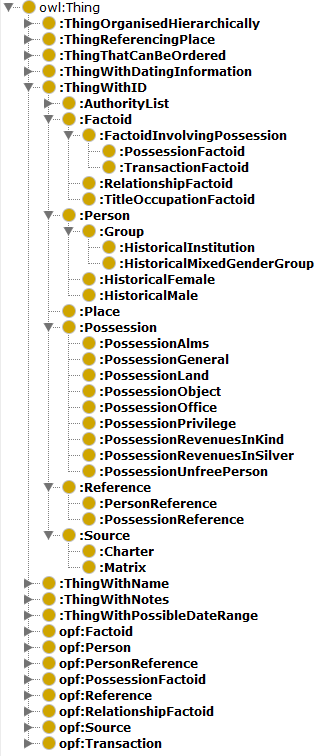
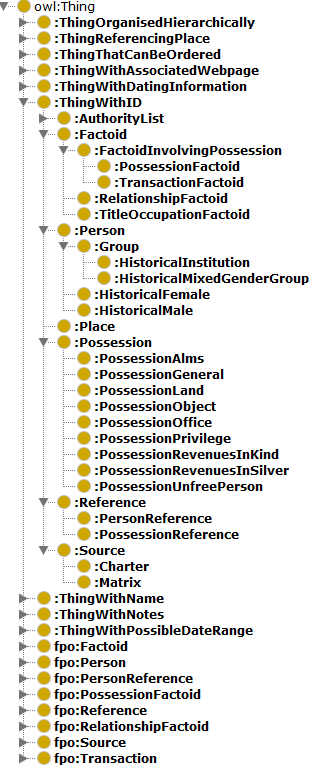
minor fixes to doc/using.html

diff --git a/uk.ac.kcl.kdl.jb.poms.rdfserver/WebContent/ontology/doc/annotationproperties/comment___1501100887.html b/uk.ac.kcl.kdl.jb.poms.rdfserver/WebContent/ontology/doc/annotationproperties/comment___1501100887.html
@@ -33,7 +33,7 @@
 <li class="asserted"><a href="../classes/CharterType___-1591539663.html" class='Class' title="http://www.poms.ac.uk/rdf/ontology#CharterType">:CharterType</a>&nbsp;<span class='Annotation Property active-entity'>rdfs:comment</span> <span class='literal'>"Type of document, such as charter, strictly defined, a diploma, a brieve, an agreement, etc."</span>&nbsp;</li>
 <li class="asserted"><a href="../classes/CommonBurden___1141474437.html" class='Class' title="http://www.poms.ac.uk/rdf/ontology#CommonBurden">:CommonBurden</a>&nbsp;<span class='Annotation Property active-entity'>rdfs:comment</span> <span class='literal'>"Burdens owed commonly in respect of landholding, usually aids, works, army service"</span>&nbsp;</li>
 <li class="asserted"><a href="../classes/ExemptionType___1547741167.html" class='Class' title="http://www.poms.ac.uk/rdf/ontology#ExemptionType">:ExemptionType</a>&nbsp;<span class='Annotation Property active-entity'>rdfs:comment</span> <span class='literal'>"Exemptions from burdens and service owed for landholding"</span>&nbsp;</li>
-<li class="asserted"><a href="../classes/Factoid___1917271338.html" class='Class' title="http://www.poms.ac.uk/rdf/ontology#Factoid">:Factoid</a>&nbsp;<span class='Annotation Property active-entity'>rdfs:comment</span> <span class='literal'>"In PoMS a :Factoid represents a place in a historical source (usually a legal charter) where something is said about a person or a group persons.  This is semantically the idea behind the opf:Factoid as well, thus this :Factoid class is a subclass of opf:Factoid."</span>&nbsp;</li>
+<li class="asserted"><a href="../classes/Factoid___1917271338.html" class='Class' title="http://www.poms.ac.uk/rdf/ontology#Factoid">:Factoid</a>&nbsp;<span class='Annotation Property active-entity'>rdfs:comment</span> <span class='literal'>"In PoMS a :Factoid represents a place in a historical source (usually a legal charter) where something is said about a person or a group persons.  This is semantically the idea behind the fpo:Factoid as well, thus this :Factoid class is a subclass of fpo:Factoid."</span>&nbsp;</li>
 <li class="asserted"><a href="../classes/FactoidInvolvingPossession___-575960982.html" class='Class' title="http://www.poms.ac.uk/rdf/ontology#FactoidInvolvingPossession">:FactoidInvolvingPossession</a>&nbsp;<span class='Annotation Property active-entity'>rdfs:comment</span> <span class='literal'>"Factoids that involve one or more possessions. There are two kinds : (i) :PossessionFactoid represents a simple assertion that someone owned something;  and (ii) :TransactionFactoid represents a legal transaction between people of a possession."</span>&nbsp;</li>
 <li class="asserted"><a href="../classes/GrantorCategory___-276048023.html" class='Class' title="http://www.poms.ac.uk/rdf/ontology#GrantorCategory">:GrantorCategory</a>&nbsp;<span class='Annotation Property active-entity'>rdfs:comment</span> <span class='literal'>"Series of documents based on category of grantors, e.g., earls of Fife, papal judges delegate"</span>&nbsp;</li>
 <li class="asserted"><a href="../classes/Group___1413577675.html" class='Class' title="http://www.poms.ac.uk/rdf/ontology#Group">:Group</a>&nbsp;<span class='Annotation Property active-entity'>rdfs:comment</span> <span class='literal'>"a group of people which form an entity which is referenced in a charter. E.g., a monastary, or a city."</span>&nbsp;</li>
@@ -213,7 +213,7 @@
 <li class="asserted"><a href="../objectproperties/referencesPerson___362848617.html" class='Object Property' title="http://www.poms.ac.uk/rdf/ontology#referencesPerson">:referencesPerson</a>&nbsp;<span class='Annotation Property active-entity'>rdfs:comment</span> <span class='literal'>"The link to :Person being referenced"</span>&nbsp;</li>
 <li class="asserted"><a href="../objectproperties/referencesPossession___-1661355050.html" class='Object Property' title="http://www.poms.ac.uk/rdf/ontology#referencesPossession">:referencesPossession</a>&nbsp;<span class='Annotation Property active-entity'>rdfs:comment</span> <span class='literal'>"The link to :Possession being referenced"</span>&nbsp;</li>
 <li class="asserted"><a href="../datatypes/wktLiteral___-733726512.html" class='Datatype' title="http://www.w3.org/2003/01/geo/wgs84_pos#wktLiteral">geo:wktLiteral</a>&nbsp;<span class='Annotation Property active-entity'>rdfs:comment</span> <span class='literal'>"Asserts that the data present gives geographic data using wktLiteral notation.  In PoMS only georgraphic points are given, e.g. â€œPOINT(55.953 -3.189)â€. Rdf4jâ€™s implementation of GeoSPARQL, available in this server, supportss wktLiteral format. (See pages for GeoSPARQL at GitHub and rdfj4 itself)."</span>&nbsp;</li>
-<li class="asserted"><a href="../classes/Factoid___1366574289.html" class='Class' title="https://github.com/johnBradley501/FPO/raw/master/fpo.owl#Factoid">opf:Factoid</a>&nbsp;<span class='Annotation Property active-entity'>rdfs:comment</span> <span class='literal'>"A Factoid is a spot in a primary source where something is said about a Person or several people. This is the central conception of the "factoid" approach to prosopography."</span>&nbsp;</li>
+<li class="asserted"><a href="../classes/Factoid___1366574289.html" class='Class' title="https://github.com/johnBradley501/FPO/raw/master/fpo.owl#Factoid">fpo:Factoid</a>&nbsp;<span class='Annotation Property active-entity'>rdfs:comment</span> <span class='literal'>"A Factoid is a spot in a primary source where something is said about a Person or several people. This is the central conception of the "factoid" approach to prosopography."</span>&nbsp;</li>
 <li class="asserted"><a href="hasDescription___-481342866.html" class='Annotation Property' title="http://www.poms.ac.uk/rdf/ontology#hasDescription">:hasDescription</a> <span class='keyword'>SubPropertyOf</span> <span class='Annotation Property active-entity'>rdfs:comment</span></li>
 <li class="asserted"><a href="hasPersonDescription___146211673.html" class='Annotation Property' title="http://www.poms.ac.uk/rdf/ontology#hasPersonDescription">:hasPersonDescription</a> <span class='keyword'>SubPropertyOf</span> <span class='Annotation Property active-entity'>rdfs:comment</span></li>
 <li class="asserted"><span class='Annotation Property active-entity'>rdfs:comment</span> <span class='literal'>"An ontology for the data created by the People of Medieval Scotland project (see http://www.poms.ac.uk).  The major data repository for the work of the PoMS project was a relational database.  This ontology provides a definition for the RDF expression of the data in that database."</span></li>

diff --git a/uk.ac.kcl.kdl.jb.poms.rdfserver/WebContent/ontology/doc/datatypes/PlainLiteral___-1770072891.html b/uk.ac.kcl.kdl.jb.poms.rdfserver/WebContent/ontology/doc/datatypes/PlainLiteral___-1770072891.html
@@ -39,7 +39,7 @@
 <li class="asserted"><a href="../classes/CommonBurden___1141474437.html" class='Class' title="http://www.poms.ac.uk/rdf/ontology#CommonBurden">:CommonBurden</a>&nbsp;<a href="../annotationproperties/label___653429740.html" class='Annotation Property' title="http://www.w3.org/2000/01/rdf-schema#label">rdfs:label</a> <span class='literal'>"Common Burden"</span>&nbsp;</li>
 <li class="asserted"><a href="../classes/ExemptionType___1547741167.html" class='Class' title="http://www.poms.ac.uk/rdf/ontology#ExemptionType">:ExemptionType</a>&nbsp;<a href="../annotationproperties/comment___1501100887.html" class='Annotation Property' title="http://www.w3.org/2000/01/rdf-schema#comment">rdfs:comment</a> <span class='literal'>"Exemptions from burdens and service owed for landholding"</span>&nbsp;</li>
 <li class="asserted"><a href="../classes/ExemptionType___1547741167.html" class='Class' title="http://www.poms.ac.uk/rdf/ontology#ExemptionType">:ExemptionType</a>&nbsp;<a href="../annotationproperties/label___653429740.html" class='Annotation Property' title="http://www.w3.org/2000/01/rdf-schema#label">rdfs:label</a> <span class='literal'>"ExemptionType"</span>&nbsp;</li>
-<li class="asserted"><a href="../classes/Factoid___1917271338.html" class='Class' title="http://www.poms.ac.uk/rdf/ontology#Factoid">:Factoid</a>&nbsp;<a href="../annotationproperties/comment___1501100887.html" class='Annotation Property' title="http://www.w3.org/2000/01/rdf-schema#comment">rdfs:comment</a> <span class='literal'>"In PoMS a :Factoid represents a place in a historical source (usually a legal charter) where something is said about a person or a group persons.  This is semantically the idea behind the opf:Factoid as well, thus this :Factoid class is a subclass of opf:Factoid."</span>&nbsp;</li>
+<li class="asserted"><a href="../classes/Factoid___1917271338.html" class='Class' title="http://www.poms.ac.uk/rdf/ontology#Factoid">:Factoid</a>&nbsp;<a href="../annotationproperties/comment___1501100887.html" class='Annotation Property' title="http://www.w3.org/2000/01/rdf-schema#comment">rdfs:comment</a> <span class='literal'>"In PoMS a :Factoid represents a place in a historical source (usually a legal charter) where something is said about a person or a group persons.  This is semantically the idea behind the fpo:Factoid as well, thus this :Factoid class is a subclass of fpo:Factoid."</span>&nbsp;</li>
 <li class="asserted"><a href="../classes/FactoidInvolvingPossession___-575960982.html" class='Class' title="http://www.poms.ac.uk/rdf/ontology#FactoidInvolvingPossession">:FactoidInvolvingPossession</a>&nbsp;<a href="../annotationproperties/comment___1501100887.html" class='Annotation Property' title="http://www.w3.org/2000/01/rdf-schema#comment">rdfs:comment</a> <span class='literal'>"Factoids that involve one or more possessions. There are two kinds : (i) :PossessionFactoid represents a simple assertion that someone owned something;  and (ii) :TransactionFactoid represents a legal transaction between people of a possession."</span>&nbsp;</li>
 <li class="asserted"><a href="../individuals/Friday___-837916949.html" class='Individual' title="http://www.poms.ac.uk/rdf/ontology#Friday">:Friday</a>&nbsp;<a href="../annotationproperties/label___653429740.html" class='Annotation Property' title="http://www.w3.org/2000/01/rdf-schema#label">rdfs:label</a> <span class='literal'>"Weekday: Friday"</span>&nbsp;</li>
 <li class="asserted"><a href="../classes/GrantorCategory___-276048023.html" class='Class' title="http://www.poms.ac.uk/rdf/ontology#GrantorCategory">:GrantorCategory</a>&nbsp;<a href="../annotationproperties/comment___1501100887.html" class='Annotation Property' title="http://www.w3.org/2000/01/rdf-schema#comment">rdfs:comment</a> <span class='literal'>"Series of documents based on category of grantors, e.g., earls of Fife, papal judges delegate"</span>&nbsp;</li>
@@ -262,7 +262,7 @@
 <li class="asserted"><a href="../objectproperties/referencesPerson___362848617.html" class='Object Property' title="http://www.poms.ac.uk/rdf/ontology#referencesPerson">:referencesPerson</a>&nbsp;<a href="../annotationproperties/comment___1501100887.html" class='Annotation Property' title="http://www.w3.org/2000/01/rdf-schema#comment">rdfs:comment</a> <span class='literal'>"The link to :Person being referenced"</span>&nbsp;</li>
 <li class="asserted"><a href="../objectproperties/referencesPossession___-1661355050.html" class='Object Property' title="http://www.poms.ac.uk/rdf/ontology#referencesPossession">:referencesPossession</a>&nbsp;<a href="../annotationproperties/comment___1501100887.html" class='Annotation Property' title="http://www.w3.org/2000/01/rdf-schema#comment">rdfs:comment</a> <span class='literal'>"The link to :Possession being referenced"</span>&nbsp;</li>
 <li class="asserted"><a href="wktLiteral___-733726512.html" class='Datatype' title="http://www.w3.org/2003/01/geo/wgs84_pos#wktLiteral">geo:wktLiteral</a>&nbsp;<a href="../annotationproperties/comment___1501100887.html" class='Annotation Property' title="http://www.w3.org/2000/01/rdf-schema#comment">rdfs:comment</a> <span class='literal'>"Asserts that the data present gives geographic data using wktLiteral notation.  In PoMS only georgraphic points are given, e.g. â€œPOINT(55.953 -3.189)â€. Rdf4jâ€™s implementation of GeoSPARQL, available in this server, supportss wktLiteral format. (See pages for GeoSPARQL at GitHub and rdfj4 itself)."</span>&nbsp;</li>
-<li class="asserted"><a href="../classes/Factoid___1366574289.html" class='Class' title="https://github.com/johnBradley501/FPO/raw/master/fpo.owl#Factoid">opf:Factoid</a>&nbsp;<a href="../annotationproperties/comment___1501100887.html" class='Annotation Property' title="http://www.w3.org/2000/01/rdf-schema#comment">rdfs:comment</a> <span class='literal'>"A Factoid is a spot in a primary source where something is said about a Person or several people. This is the central conception of the "factoid" approach to prosopography."</span>&nbsp;</li>
+<li class="asserted"><a href="../classes/Factoid___1366574289.html" class='Class' title="https://github.com/johnBradley501/FPO/raw/master/fpo.owl#Factoid">fpo:Factoid</a>&nbsp;<a href="../annotationproperties/comment___1501100887.html" class='Annotation Property' title="http://www.w3.org/2000/01/rdf-schema#comment">rdfs:comment</a> <span class='literal'>"A Factoid is a spot in a primary source where something is said about a Person or several people. This is the central conception of the "factoid" approach to prosopography."</span>&nbsp;</li>
 </ul>
 </div>
 </div><!-- usage (237) -->

diff --git a/uk.ac.kcl.kdl.jb.poms.rdfserver/WebContent/ontology/doc/index-all.html b/uk.ac.kcl.kdl.jb.poms.rdfserver/WebContent/ontology/doc/index-all.html
@@ -23,7 +23,7 @@
 <div class='owlselector'>
 <h2>Entities (235)</h2>
 
-<div class='codebox' id='ID2642774147863140202'>
+<div class='codebox' id='ID8562614728630573118'>
 <ul>
 <li class="asserted"><a href="classes/Thing___-200689702.html" target="content" class='Class' title="http://www.w3.org/2002/07/owl#Thing">owl:Thing</a></li>
 <li class="asserted"><a href="classes/AttachmentType___874665097.html" target="content" class='Class' title="http://www.poms.ac.uk/rdf/ontology#AttachmentType">:AttachmentType</a></li>
@@ -240,16 +240,16 @@
 <li class="asserted"><a href="annotationproperties/description___2115014407.html" target="content" class='Annotation Property' title="http://purl.org/dc/elements/1.1/description">dc:description</a></li>
 <li class="asserted"><a href="annotationproperties/rights___-1386509086.html" target="content" class='Annotation Property' title="http://purl.org/dc/elements/1.1/rights">dc:rights</a></li>
 <li class="asserted"><a href="annotationproperties/title___-345035421.html" target="content" class='Annotation Property' title="http://purl.org/dc/elements/1.1/title">dc:title</a></li>
+<li class="asserted"><a href="classes/Factoid___1366574289.html" target="content" class='Class' title="https://github.com/johnBradley501/FPO/raw/master/fpo.owl#Factoid">fpo:Factoid</a></li>
+<li class="asserted"><a href="objectproperties/hasReference___-1217489180.html" target="content" class='Object Property' title="https://github.com/johnBradley501/FPO/raw/master/fpo.owl#hasReference">fpo:hasReference</a></li>
+<li class="asserted"><a href="classes/Person___-1114045304.html" target="content" class='Class' title="https://github.com/johnBradley501/FPO/raw/master/fpo.owl#Person">fpo:Person</a></li>
+<li class="asserted"><a href="classes/PersonReference___-762451863.html" target="content" class='Class' title="https://github.com/johnBradley501/FPO/raw/master/fpo.owl#PersonReference">fpo:PersonReference</a></li>
+<li class="asserted"><a href="classes/PossessionFactoid___-1195172689.html" target="content" class='Class' title="https://github.com/johnBradley501/FPO/raw/master/fpo.owl#PossessionFactoid">fpo:PossessionFactoid</a></li>
+<li class="asserted"><a href="classes/Reference___1872616510.html" target="content" class='Class' title="https://github.com/johnBradley501/FPO/raw/master/fpo.owl#Reference">fpo:Reference</a></li>
+<li class="asserted"><a href="classes/RelationshipFactoid___-1221286023.html" target="content" class='Class' title="https://github.com/johnBradley501/FPO/raw/master/fpo.owl#RelationshipFactoid">fpo:RelationshipFactoid</a></li>
+<li class="asserted"><a href="classes/Source___-1018834610.html" target="content" class='Class' title="https://github.com/johnBradley501/FPO/raw/master/fpo.owl#Source">fpo:Source</a></li>
+<li class="asserted"><a href="classes/Transaction___307951569.html" target="content" class='Class' title="https://github.com/johnBradley501/FPO/raw/master/fpo.owl#Transaction">fpo:Transaction</a></li>
 <li class="asserted"><a href="datatypes/wktLiteral___-733726512.html" target="content" class='Datatype' title="http://www.w3.org/2003/01/geo/wgs84_pos#wktLiteral">geo:wktLiteral</a></li>
-<li class="asserted"><a href="classes/Factoid___1366574289.html" target="content" class='Class' title="https://github.com/johnBradley501/FPO/raw/master/fpo.owl#Factoid">opf:Factoid</a></li>
-<li class="asserted"><a href="objectproperties/hasReference___-1217489180.html" target="content" class='Object Property' title="https://github.com/johnBradley501/FPO/raw/master/fpo.owl#hasReference">opf:hasReference</a></li>
-<li class="asserted"><a href="classes/Person___-1114045304.html" target="content" class='Class' title="https://github.com/johnBradley501/FPO/raw/master/fpo.owl#Person">opf:Person</a></li>
-<li class="asserted"><a href="classes/PersonReference___-762451863.html" target="content" class='Class' title="https://github.com/johnBradley501/FPO/raw/master/fpo.owl#PersonReference">opf:PersonReference</a></li>
-<li class="asserted"><a href="classes/PossessionFactoid___-1195172689.html" target="content" class='Class' title="https://github.com/johnBradley501/FPO/raw/master/fpo.owl#PossessionFactoid">opf:PossessionFactoid</a></li>
-<li class="asserted"><a href="classes/Reference___1872616510.html" target="content" class='Class' title="https://github.com/johnBradley501/FPO/raw/master/fpo.owl#Reference">opf:Reference</a></li>
-<li class="asserted"><a href="classes/RelationshipFactoid___-1221286023.html" target="content" class='Class' title="https://github.com/johnBradley501/FPO/raw/master/fpo.owl#RelationshipFactoid">opf:RelationshipFactoid</a></li>
-<li class="asserted"><a href="classes/Source___-1018834610.html" target="content" class='Class' title="https://github.com/johnBradley501/FPO/raw/master/fpo.owl#Source">opf:Source</a></li>
-<li class="asserted"><a href="classes/Transaction___307951569.html" target="content" class='Class' title="https://github.com/johnBradley501/FPO/raw/master/fpo.owl#Transaction">opf:Transaction</a></li>
 <li class="asserted"><a href="classes/Nothing___-782458183.html" target="content" class='Class' title="http://www.w3.org/2002/07/owl#Nothing">owl:Nothing</a></li>
 <li class="asserted"><a href="annotationproperties/versionInfo___407301298.html" target="content" class='Annotation Property' title="http://www.w3.org/2002/07/owl#versionInfo">owl:versionInfo</a></li>
 <li class="asserted"><a href="datatypes/PlainLiteral___-1770072891.html" target="content" class='Datatype' title="http://www.w3.org/1999/02/22-rdf-syntax-ns#PlainLiteral">rdf:PlainLiteral</a></li>

diff --git a/uk.ac.kcl.kdl.jb.poms.rdfserver/WebContent/ontology/doc/classes/index.html b/uk.ac.kcl.kdl.jb.poms.rdfserver/WebContent/ontology/doc/classes/index.html
@@ -23,7 +23,7 @@
 <div class='owlselector'>
 <h2>ontology: classes (75)</h2>
 
-<div class='codebox' id='ID7305389886772572514'>
+<div class='codebox' id='ID5369415559613986189'>
 <ul>
 <li class="asserted"><a href="Thing___-200689702.html" target="content" class='Class' title="http://www.w3.org/2002/07/owl#Thing">owl:Thing</a></li>
 <li class="asserted"><a href="AttachmentType___874665097.html" target="content" class='Class' title="http://www.poms.ac.uk/rdf/ontology#AttachmentType">:AttachmentType</a></li>
@@ -91,14 +91,14 @@
 <li class="asserted"><a href="TransactionOption___-872817089.html" target="content" class='Class' title="http://www.poms.ac.uk/rdf/ontology#TransactionOption">:TransactionOption</a></li>
 <li class="asserted"><a href="TransactionType___1610507396.html" target="content" class='Class' title="http://www.poms.ac.uk/rdf/ontology#TransactionType">:TransactionType</a></li>
 <li class="asserted"><a href="Weekday___-58950540.html" target="content" class='Class' title="http://www.poms.ac.uk/rdf/ontology#Weekday">:Weekday</a></li>
-<li class="asserted"><a href="Factoid___1366574289.html" target="content" class='Class' title="https://github.com/johnBradley501/FPO/raw/master/fpo.owl#Factoid">opf:Factoid</a></li>
-<li class="asserted"><a href="Person___-1114045304.html" target="content" class='Class' title="https://github.com/johnBradley501/FPO/raw/master/fpo.owl#Person">opf:Person</a></li>
-<li class="asserted"><a href="PersonReference___-762451863.html" target="content" class='Class' title="https://github.com/johnBradley501/FPO/raw/master/fpo.owl#PersonReference">opf:PersonReference</a></li>
-<li class="asserted"><a href="PossessionFactoid___-1195172689.html" target="content" class='Class' title="https://github.com/johnBradley501/FPO/raw/master/fpo.owl#PossessionFactoid">opf:PossessionFactoid</a></li>
-<li class="asserted"><a href="Reference___1872616510.html" target="content" class='Class' title="https://github.com/johnBradley501/FPO/raw/master/fpo.owl#Reference">opf:Reference</a></li>
-<li class="asserted"><a href="RelationshipFactoid___-1221286023.html" target="content" class='Class' title="https://github.com/johnBradley501/FPO/raw/master/fpo.owl#RelationshipFactoid">opf:RelationshipFactoid</a></li>
-<li class="asserted"><a href="Source___-1018834610.html" target="content" class='Class' title="https://github.com/johnBradley501/FPO/raw/master/fpo.owl#Source">opf:Source</a></li>
-<li class="asserted"><a href="Transaction___307951569.html" target="content" class='Class' title="https://github.com/johnBradley501/FPO/raw/master/fpo.owl#Transaction">opf:Transaction</a></li>
+<li class="asserted"><a href="Factoid___1366574289.html" target="content" class='Class' title="https://github.com/johnBradley501/FPO/raw/master/fpo.owl#Factoid">fpo:Factoid</a></li>
+<li class="asserted"><a href="Person___-1114045304.html" target="content" class='Class' title="https://github.com/johnBradley501/FPO/raw/master/fpo.owl#Person">fpo:Person</a></li>
+<li class="asserted"><a href="PersonReference___-762451863.html" target="content" class='Class' title="https://github.com/johnBradley501/FPO/raw/master/fpo.owl#PersonReference">fpo:PersonReference</a></li>
+<li class="asserted"><a href="PossessionFactoid___-1195172689.html" target="content" class='Class' title="https://github.com/johnBradley501/FPO/raw/master/fpo.owl#PossessionFactoid">fpo:PossessionFactoid</a></li>
+<li class="asserted"><a href="Reference___1872616510.html" target="content" class='Class' title="https://github.com/johnBradley501/FPO/raw/master/fpo.owl#Reference">fpo:Reference</a></li>
+<li class="asserted"><a href="RelationshipFactoid___-1221286023.html" target="content" class='Class' title="https://github.com/johnBradley501/FPO/raw/master/fpo.owl#RelationshipFactoid">fpo:RelationshipFactoid</a></li>
+<li class="asserted"><a href="Source___-1018834610.html" target="content" class='Class' title="https://github.com/johnBradley501/FPO/raw/master/fpo.owl#Source">fpo:Source</a></li>
+<li class="asserted"><a href="Transaction___307951569.html" target="content" class='Class' title="https://github.com/johnBradley501/FPO/raw/master/fpo.owl#Transaction">fpo:Transaction</a></li>
 <li class="asserted"><a href="Nothing___-782458183.html" target="content" class='Class' title="http://www.w3.org/2002/07/owl#Nothing">owl:Nothing</a></li>
 </ul>
 </div>

diff --git a/uk.ac.kcl.kdl.jb.poms.rdfserver/WebContent/ontology/doc/classes/Factoid___1917271338.html b/uk.ac.kcl.kdl.jb.poms.rdfserver/WebContent/ontology/doc/classes/Factoid___1917271338.html
@@ -26,7 +26,7 @@
 <h4>Annotations (1)</h4>
 <div class='codebox'>
 <ul>
-<li class="asserted"><a href="../annotationproperties/comment___1501100887.html" class='Annotation Property' title="http://www.w3.org/2000/01/rdf-schema#comment">rdfs:comment</a> <span class='literal'>"In PoMS a :Factoid represents a place in a historical source (usually a legal charter) where something is said about a person or a group persons.  This is semantically the idea behind the opf:Factoid as well, thus this :Factoid class is a subclass of opf:Factoid."</span></li>
+<li class="asserted"><a href="../annotationproperties/comment___1501100887.html" class='Annotation Property' title="http://www.w3.org/2000/01/rdf-schema#comment">rdfs:comment</a> <span class='literal'>"In PoMS a :Factoid represents a place in a historical source (usually a legal charter) where something is said about a person or a group persons.  This is semantically the idea behind the fpo:Factoid as well, thus this :Factoid class is a subclass of fpo:Factoid."</span></li>
 </ul>
 </div>
 </div><!-- annotations (1) -->
@@ -42,7 +42,7 @@
 <li class="asserted"><a href="ThingWithID___-1091812293.html" class='Class' title="http://www.poms.ac.uk/rdf/ontology#ThingWithID">:ThingWithID</a></li>
 <li class="asserted"><a href="ThingWithNotes___1790558681.html" class='Class' title="http://www.poms.ac.uk/rdf/ontology#ThingWithNotes">:ThingWithNotes</a></li>
 <li class="asserted"><a href="ThingWithPossibleDateRange___-1992291114.html" class='Class' title="http://www.poms.ac.uk/rdf/ontology#ThingWithPossibleDateRange">:ThingWithPossibleDateRange</a></li>
-<li class="asserted"><a href="Factoid___1366574289.html" class='Class' title="https://github.com/johnBradley501/FPO/raw/master/fpo.owl#Factoid">opf:Factoid</a></li>
+<li class="asserted"><a href="Factoid___1366574289.html" class='Class' title="https://github.com/johnBradley501/FPO/raw/master/fpo.owl#Factoid">fpo:Factoid</a></li>
 </ul>
 </div>
 </div><!-- superclasses (7) -->

diff --git a/uk.ac.kcl.kdl.jb.poms.rdfserver/WebContent/ontology/doc/ontologies/ontology___1344501100.html b/uk.ac.kcl.kdl.jb.poms.rdfserver/WebContent/ontology/doc/ontologies/ontology___1344501100.html
@@ -29,8 +29,8 @@
 <h4>Annotations (8)</h4>
 <div class='codebox'>
 <ul>
-<li class="asserted"><a href="../annotationproperties/creator___573147959.html" class='Annotation Property' title="http://purl.org/dc/elements/1.1/creator">dc:creator</a> <span class='literal'>"John Bradley (King's Digital Lab, King's Collage London)"</span></li>
 <li class="asserted"><a href="../annotationproperties/contributor___1944284134.html" class='Annotation Property' title="http://purl.org/dc/elements/1.1/contributor">dc:contributor</a> <span class='literal'>"Matthew Hammond (History, King's College London), Dauvit Broun (History, University of Glasgow)"</span></li>
+<li class="asserted"><a href="../annotationproperties/creator___573147959.html" class='Annotation Property' title="http://purl.org/dc/elements/1.1/creator">dc:creator</a> <span class='literal'>"John Bradley (King's Digital Lab, King's Collage London)"</span></li>
 <li class="asserted"><a href="../annotationproperties/description___2115014407.html" class='Annotation Property' title="http://purl.org/dc/elements/1.1/description">dc:description</a> <span class='literal'>"An ontology for the data created by the People of Medieval Scotland project (see http://www.poms.ac.uk).  The major data repository for the work of the PoMS project was a relational database.  This ontology provides a definition of an RDF expression of the data in that database."</span></li>
 <li class="asserted"><a href="../annotationproperties/rights___-1386509086.html" class='Annotation Property' title="http://purl.org/dc/elements/1.1/rights">dc:rights</a> <span class='literal'>"Creative Commons Attribution-NonCommercial 4.0 International License."</span></li>
 <li class="asserted"><a href="../annotationproperties/title___-345035421.html" class='Annotation Property' title="http://purl.org/dc/elements/1.1/title">dc:title</a> <span class='literal'>"Ontology for PoMS data"</span></li>

diff --git a/uk.ac.kcl.kdl.jb.poms.rdfserver/WebContent/ontology/doc/objectproperties/index.html b/uk.ac.kcl.kdl.jb.poms.rdfserver/WebContent/ontology/doc/objectproperties/index.html
@@ -23,7 +23,7 @@
 <div class='owlselector'>
 <h2>ontology: objectproperties (36)</h2>
 
-<div class='codebox' id='ID-2147356121296197188'>
+<div class='codebox' id='ID-846611091410957821'>
 <ul>
 <li class="asserted"><a href="hasCharterType___934261079.html" target="content" class='Object Property' title="http://www.poms.ac.uk/rdf/ontology#hasCharterType">:hasCharterType</a></li>
 <li class="asserted"><a href="hasCommonBurden___2131886111.html" target="content" class='Object Property' title="http://www.poms.ac.uk/rdf/ontology#hasCommonBurden">:hasCommonBurden</a></li>
@@ -60,7 +60,7 @@
 <li class="asserted"><a href="linkedToPlace___1556265055.html" target="content" class='Object Property' title="http://www.poms.ac.uk/rdf/ontology#linkedToPlace">:linkedToPlace</a></li>
 <li class="asserted"><a href="referencesPerson___362848617.html" target="content" class='Object Property' title="http://www.poms.ac.uk/rdf/ontology#referencesPerson">:referencesPerson</a></li>
 <li class="asserted"><a href="referencesPossession___-1661355050.html" target="content" class='Object Property' title="http://www.poms.ac.uk/rdf/ontology#referencesPossession">:referencesPossession</a></li>
-<li class="asserted"><a href="hasReference___-1217489180.html" target="content" class='Object Property' title="https://github.com/johnBradley501/FPO/raw/master/fpo.owl#hasReference">opf:hasReference</a></li>
+<li class="asserted"><a href="hasReference___-1217489180.html" target="content" class='Object Property' title="https://github.com/johnBradley501/FPO/raw/master/fpo.owl#hasReference">fpo:hasReference</a></li>
 </ul>
 </div>
 

diff --git a/uk.ac.kcl.kdl.jb.poms.rdfserver/WebContent/doc/using.html b/uk.ac.kcl.kdl.jb.poms.rdfserver/WebContent/doc/using.html
@@ -170,7 +170,7 @@ src="images/image004.png"></p>
 
 <p>The Explore Display displays RDF statements (triples) that make reference to
 the thing being explored. The screen above shows the beginning of the display that results
-from entering “<code>vocab:Person<code>”. Note that all the references to other URIs in the display
+from entering “<code>vocab:Person</code>”. Note that all the references to other URIs in the display
 are blue-and-underlined. Clicking on any of them redirects the Explore display
 to focus on the selected item. For example, we can see here the first of the
 Persons in PoMS, identified as <a
@@ -405,7 +405,7 @@ to use the HTTP request header Accepts mechanism, described below.</p>
 <h4>Response Formats</h4>
 
 <p>You can use your http request "Accepts" header to tell this SPARQL endpoint
-processor what format to use generate its results. The possible result formats depend on the type of
+processor what format to use to generate its results. The possible result formats depend on the type of
 query run. If the query generates RDF statements (<i>construct</i> and <i>describe</i>)
 the formats available are those listed in the section <i>Mime Types for RDF
 formats</i>, above. If the query generates tabular data (<i>select</i>), the

diff --git a/uk.ac.kcl.kdl.jb.poms.rdfserver/WebContent/ontology/doc/objectproperties/hasFactoid___-2009962160.html b/uk.ac.kcl.kdl.jb.poms.rdfserver/WebContent/ontology/doc/objectproperties/hasFactoid___-2009962160.html
@@ -56,7 +56,7 @@
 <h4>Inverses (1)</h4>
 <div class='codebox'>
 <ul>
-<li class="asserted"><a href="hasReference___-1217489180.html" class='Object Property' title="https://github.com/johnBradley501/FPO/raw/master/fpo.owl#hasReference">opf:hasReference</a></li>
+<li class="asserted"><a href="hasReference___-1217489180.html" class='Object Property' title="https://github.com/johnBradley501/FPO/raw/master/fpo.owl#hasReference">fpo:hasReference</a></li>
 </ul>
 </div>
 </div><!-- inverses (1) -->
@@ -66,7 +66,7 @@
 <h4>Usage (1)</h4>
 <div class='codebox'>
 <ul>
-<li class="asserted"><span class='Object Property active-entity'>:hasFactoid</span> <span class='keyword'>inverse</span> <a href="hasReference___-1217489180.html" class='Object Property' title="https://github.com/johnBradley501/FPO/raw/master/fpo.owl#hasReference">opf:hasReference</a></li>
+<li class="asserted"><span class='Object Property active-entity'>:hasFactoid</span> <span class='keyword'>inverse</span> <a href="hasReference___-1217489180.html" class='Object Property' title="https://github.com/johnBradley501/FPO/raw/master/fpo.owl#hasReference">fpo:hasReference</a></li>
 </ul>
 </div>
 </div><!-- usage (1) -->

diff --git a/uk.ac.kcl.kdl.jb.poms.rdfserver/WebContent/ontology/doc/classes/Person___-563348255.html b/uk.ac.kcl.kdl.jb.poms.rdfserver/WebContent/ontology/doc/classes/Person___-563348255.html
@@ -40,7 +40,7 @@
 <li class="asserted"><a href="ThingWithAssociatedWebpage___-1364663019.html" class='Class' title="http://www.poms.ac.uk/rdf/ontology#ThingWithAssociatedWebpage">:ThingWithAssociatedWebpage</a></li>
 <li class="asserted"><a href="ThingWithID___-1091812293.html" class='Class' title="http://www.poms.ac.uk/rdf/ontology#ThingWithID">:ThingWithID</a></li>
 <li class="asserted"><a href="ThingWithPossibleDateRange___-1992291114.html" class='Class' title="http://www.poms.ac.uk/rdf/ontology#ThingWithPossibleDateRange">:ThingWithPossibleDateRange</a></li>
-<li class="asserted"><a href="Person___-1114045304.html" class='Class' title="https://github.com/johnBradley501/FPO/raw/master/fpo.owl#Person">opf:Person</a></li>
+<li class="asserted"><a href="Person___-1114045304.html" class='Class' title="https://github.com/johnBradley501/FPO/raw/master/fpo.owl#Person">fpo:Person</a></li>
 </ul>
 </div>
 </div><!-- superclasses (4) -->

diff --git a/uk.ac.kcl.kdl.jb.poms.rdfserver/WebContent/ontology/doc/classes/Source___-468137561.html b/uk.ac.kcl.kdl.jb.poms.rdfserver/WebContent/ontology/doc/classes/Source___-468137561.html
@@ -42,7 +42,7 @@
 <li class="asserted"><a href="ThingWithID___-1091812293.html" class='Class' title="http://www.poms.ac.uk/rdf/ontology#ThingWithID">:ThingWithID</a></li>
 <li class="asserted"><a href="ThingWithNotes___1790558681.html" class='Class' title="http://www.poms.ac.uk/rdf/ontology#ThingWithNotes">:ThingWithNotes</a></li>
 <li class="asserted"><a href="ThingWithPossibleDateRange___-1992291114.html" class='Class' title="http://www.poms.ac.uk/rdf/ontology#ThingWithPossibleDateRange">:ThingWithPossibleDateRange</a></li>
-<li class="asserted"><a href="Source___-1018834610.html" class='Class' title="https://github.com/johnBradley501/FPO/raw/master/fpo.owl#Source">opf:Source</a></li>
+<li class="asserted"><a href="Source___-1018834610.html" class='Class' title="https://github.com/johnBradley501/FPO/raw/master/fpo.owl#Source">fpo:Source</a></li>
 </ul>
 </div>
 </div><!-- superclasses (6) -->

diff --git a/uk.ac.kcl.kdl.jb.poms.rdfserver/WebContent/ontology/doc/objectproperties/hasReference___-1217489180.html b/uk.ac.kcl.kdl.jb.poms.rdfserver/WebContent/ontology/doc/objectproperties/hasReference___-1217489180.html
@@ -20,7 +20,7 @@
 </div> <!-- tabs -->
 
 
-<div class='summary'><h2>Object Property: opf:hasReference</h2>
+<div class='summary'><h2>Object Property: fpo:hasReference</h2>
 
 <div id='inverses_(1)'>
 <h4>Inverses (1)</h4>
@@ -36,7 +36,7 @@
 <h4>Usage (1)</h4>
 <div class='codebox'>
 <ul>
-<li class="asserted"><a href="hasFactoid___-2009962160.html" class='Object Property' title="http://www.poms.ac.uk/rdf/ontology#hasFactoid">:hasFactoid</a> <span class='keyword'>inverse</span> <span class='Object Property active-entity'>opf:hasReference</span></li>
+<li class="asserted"><a href="hasFactoid___-2009962160.html" class='Object Property' title="http://www.poms.ac.uk/rdf/ontology#hasFactoid">:hasFactoid</a> <span class='keyword'>inverse</span> <span class='Object Property active-entity'>fpo:hasReference</span></li>
 </ul>
 </div>
 </div><!-- usage (1) -->
